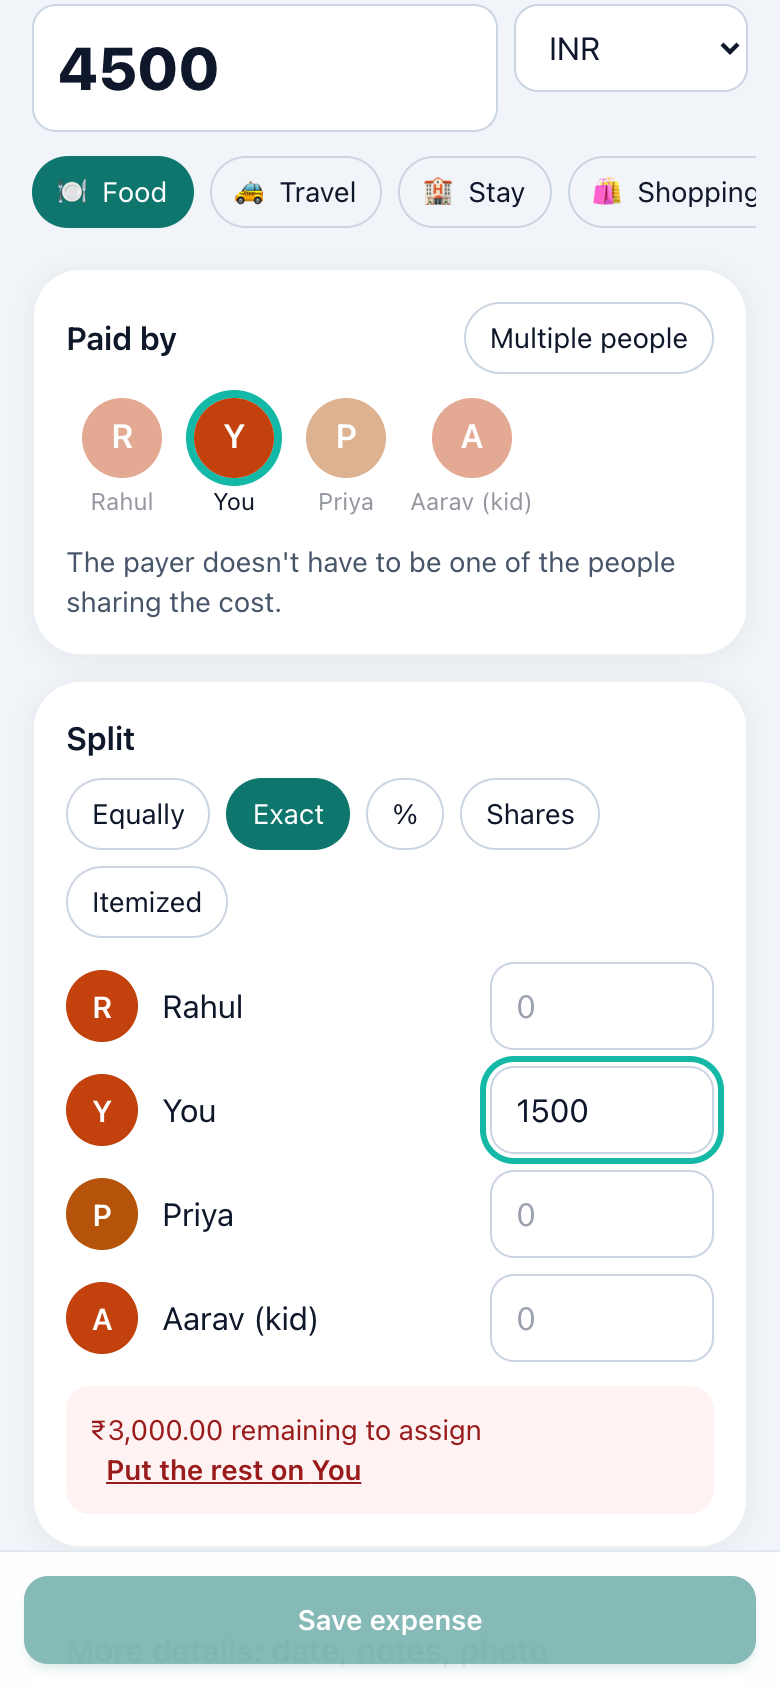
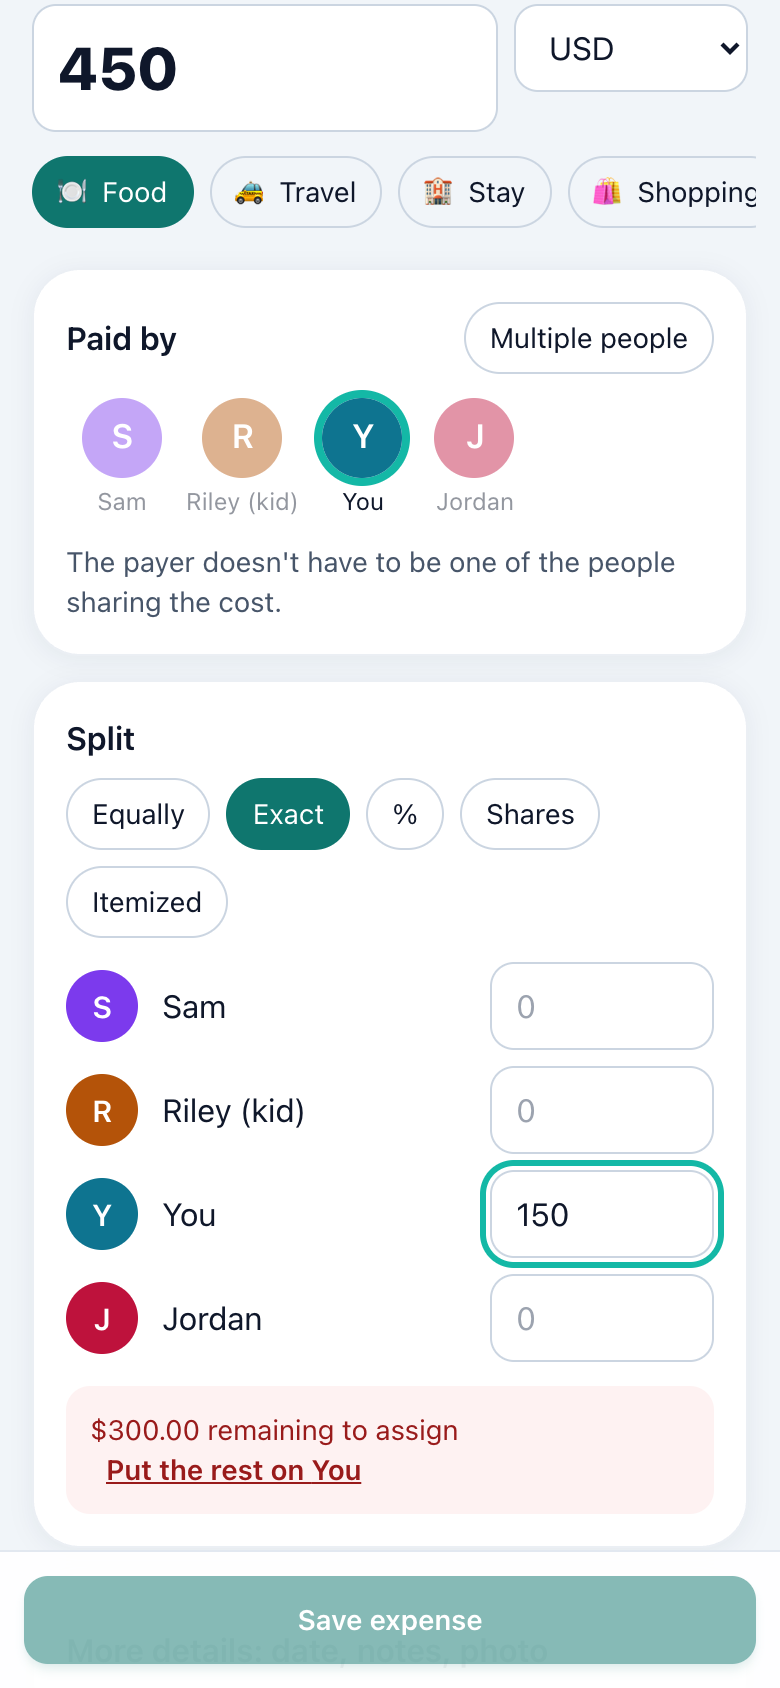
Make the app region-neutral and fix non-INR number grouping
- Generic demo group (Beach Trip, USD) and placeholders
- Default currency from browser locale; UPI fields only for INR groups
- formatMoney: standard thousands grouping for all currencies except INR
  (THB was showing lakh-style 1,39,838.17); add tests
- Refresh README screenshots

diff --git a/src/lib/demo.ts b/src/lib/demo.ts
@@ -1,7 +1,6 @@
 import { todayLocal } from '../core/misc'
 import { itemizedTotal } from '../core/split'
 import type { Expense, ItemizedExtras, ReceiptItem, RecurringRule, Settlement } from '../core/types'
-import { db } from '../db/db'
 import { addMember, createGroup, newBase, saveRecord, uuid } from '../db/repo'
 
 const ago = (n: number) => todayLocal(new Date(Date.now() - n * 864e5))
@@ -10,37 +9,37 @@ const monthStart = () => todayLocal(new Date(new Date().getFullYear(), new Date(
 
 /** Seed a realistic demo group covering every split mode, multi-payer, multi-currency, recurring & a settlement. */
 export async function createDemoGroup(): Promise<string> {
-  const { group, me } = await createGroup('Goa Trip (demo)', 'INR', 'You')
-  const [rahul, priya, kid] = [await addMember(group.id, 'Rahul'), await addMember(group.id, 'Priya'), await addMember(group.id, 'Aarav (kid)')]
-  const all = [me.id, rahul.id, priya.id, kid.id]
-  await db.members.update(rahul.id, { upiId: 'rahul@okhdfcbank' })
-  const base = { groupId: group.id, currency: 'INR', rate: 1, notes: '', createdAt: new Date().toISOString(), ...newBase() }
+  const { group, me } = await createGroup('Beach Trip (demo)', 'USD', 'You')
+  const [sam, jordan, kid] = [await addMember(group.id, 'Sam'), await addMember(group.id, 'Jordan'), await addMember(group.id, 'Riley (kid)')]
+  const all = [me.id, sam.id, jordan.id, kid.id]
+  const base = { groupId: group.id, currency: 'USD', rate: 1, notes: '', createdAt: new Date().toISOString(), ...newBase() }
   const ex = (p: Partial<Expense> & Pick<Expense, 'title' | 'amount' | 'payers' | 'split' | 'date'>): Expense => ({ id: uuid(), category: 'other', ...base, ...p })
 
   const items: ReceiptItem[] = [
-    { id: uuid(), name: 'Fish thali', unitPrice: 45000, qty: 3, units: [{ sharers: [me.id] }, { sharers: [rahul.id] }, { sharers: [priya.id] }] },
-    { id: uuid(), name: 'Kingfisher', unitPrice: 30000, qty: 2, units: [{ sharers: [me.id] }, { sharers: [rahul.id] }] },
-    { id: uuid(), name: 'Starters (shared)', unitPrice: 60000, qty: 1, units: [{ sharers: [me.id, rahul.id, priya.id, kid.id] }] },
-    { id: uuid(), name: 'Kids juice', unitPrice: 8000, qty: 1, units: [{ sharers: [kid.id] }], confidence: 52 },
+    { id: uuid(), name: 'Fish tacos', unitPrice: 1200, qty: 3, units: [{ sharers: [me.id] }, { sharers: [sam.id] }, { sharers: [jordan.id] }] },
+    { id: uuid(), name: 'Craft beer', unitPrice: 600, qty: 2, units: [{ sharers: [me.id] }, { sharers: [sam.id] }] },
+    { id: uuid(), name: 'Nachos (shared)', unitPrice: 1800, qty: 1, units: [{ sharers: all }] },
+    { id: uuid(), name: 'Kids juice', unitPrice: 300, qty: 1, units: [{ sharers: [kid.id] }], confidence: 52 },
   ]
-  const extras: ItemizedExtras = { tax: { type: 'percent', value: 500 }, service: { type: 'percent', value: 1000 }, discount: { type: 'flat', value: 5000 }, discountBeforeTax: true, distribution: 'proportional' }
+  const extras: ItemizedExtras = { tax: { type: 'percent', value: 800 }, tip: { type: 'percent', value: 1500 }, discount: { type: 'flat', value: 500 }, discountBeforeTax: true, distribution: 'proportional' }
+  const dinner = itemizedTotal(items, extras)
   const list: Expense[] = [
-    ex({ title: 'Villa (2 nights)', category: 'stay', date: ago(6), amount: 2400000, payers: { [me.id]: 1400000, [rahul.id]: 1000000 }, split: { mode: 'equal', participants: all } }),
-    ex({ title: 'Cab from airport', category: 'travel', date: ago(6), amount: 180000, payers: { [priya.id]: 180000 }, split: { mode: 'exact', amounts: { [me.id]: 60000, [rahul.id]: 60000, [priya.id]: 60000 } } }),
-    ex({ title: 'Beach shack dinner', category: 'food', date: ago(5), amount: itemizedTotal(items, extras), payers: { [rahul.id]: itemizedTotal(items, extras) }, split: { mode: 'itemized', items, extras } }),
-    ex({ title: 'Groceries', category: 'shopping', date: ago(5), amount: 320050, payers: { [me.id]: 320050 }, split: { mode: 'shares', shares: { [me.id]: 1, [rahul.id]: 1, [priya.id]: 1, [kid.id]: 0.5 } } }),
-    ex({ title: 'Scooter rental', category: 'travel', date: ago(4), amount: 150000, payers: { [priya.id]: 150000 }, split: { mode: 'percent', percents: { [me.id]: 5000, [rahul.id]: 3000, [priya.id]: 2000 } } }),
-    ex({ title: 'Parasailing', category: 'fun', date: ago(4), amount: 400000, payers: { [me.id]: 400000 }, split: { mode: 'equal', participants: [me.id, rahul.id, priya.id], adjustments: { [rahul.id]: 20000, [priya.id]: -20000 } } }),
-    ex({ title: 'Souvenirs (USD)', category: 'shopping', date: ago(3), currency: 'USD', rate: 83.25, amount: 6000, payers: { [priya.id]: 6000 }, split: { mode: 'equal', participants: all } }),
-    ex({ title: 'Airport refund (credit note)', category: 'travel', date: ago(2), amount: -90000, payers: { [me.id]: -90000 }, split: { mode: 'equal', participants: [me.id, rahul.id, priya.id] } }),
+    ex({ title: 'Beach house (2 nights)', category: 'stay', date: ago(6), amount: 120000, payers: { [me.id]: 70000, [sam.id]: 50000 }, split: { mode: 'equal', participants: all } }),
+    ex({ title: 'Airport taxi', category: 'travel', date: ago(6), amount: 9000, payers: { [jordan.id]: 9000 }, split: { mode: 'exact', amounts: { [me.id]: 3000, [sam.id]: 3000, [jordan.id]: 3000 } } }),
+    ex({ title: 'Seafood dinner', category: 'food', date: ago(5), amount: dinner, payers: { [sam.id]: dinner }, split: { mode: 'itemized', items, extras } }),
+    ex({ title: 'Groceries', category: 'shopping', date: ago(5), amount: 12805, payers: { [me.id]: 12805 }, split: { mode: 'shares', shares: { [me.id]: 1, [sam.id]: 1, [jordan.id]: 1, [kid.id]: 0.5 } } }),
+    ex({ title: 'Scooter rental', category: 'travel', date: ago(4), amount: 6000, payers: { [jordan.id]: 6000 }, split: { mode: 'percent', percents: { [me.id]: 5000, [sam.id]: 3000, [jordan.id]: 2000 } } }),
+    ex({ title: 'Parasailing', category: 'fun', date: ago(4), amount: 15000, payers: { [me.id]: 15000 }, split: { mode: 'equal', participants: [me.id, sam.id, jordan.id], adjustments: { [sam.id]: 1000, [jordan.id]: -1000 } } }),
+    ex({ title: 'Souvenirs (EUR)', category: 'shopping', date: ago(3), currency: 'EUR', rate: 1.08, amount: 4500, payers: { [jordan.id]: 4500 }, split: { mode: 'equal', participants: all } }),
+    ex({ title: 'Ferry refund (credit note)', category: 'travel', date: ago(2), amount: -3500, payers: { [me.id]: -3500 }, split: { mode: 'equal', participants: [me.id, sam.id, jordan.id] } }),
   ]
   for (const e of list) await saveRecord('expense', group.id, e, { action: 'create', summary: `Added "${e.title}"`, silent: true })
-  const s: Settlement = { id: uuid(), groupId: group.id, from: rahul.id, to: me.id, amount: 500000, currency: 'INR', rate: 1, date: ago(1), note: 'Part payment', ...newBase() }
+  const s: Settlement = { id: uuid(), groupId: group.id, from: sam.id, to: me.id, amount: 20000, currency: 'USD', rate: 1, date: ago(1), note: 'Part payment', ...newBase() }
   await saveRecord('settlement', group.id, s, { action: 'settle', summary: 'Recorded a payment', silent: true })
   const rule: RecurringRule = {
     id: uuid(), groupId: group.id, frequency: 'monthly', interval: 1, startDate: monthStart(), ...newBase(),
-    template: { groupId: group.id, title: 'Netflix (shared)', amount: 64900, currency: 'INR', rate: 1, payers: { [me.id]: 64900 }, split: { mode: 'equal', participants: [me.id, rahul.id, priya.id] }, category: 'utilities', notes: '' },
+    template: { groupId: group.id, title: 'Streaming plan (shared)', amount: 1599, currency: 'USD', rate: 1, payers: { [me.id]: 1599 }, split: { mode: 'equal', participants: [me.id, sam.id, jordan.id] }, category: 'utilities', notes: '' },
   }
-  await saveRecord('recurring', group.id, rule, { action: 'create', summary: 'Recurring: Netflix', silent: true })
+  await saveRecord('recurring', group.id, rule, { action: 'create', summary: 'Recurring: streaming plan', silent: true })
   return group.id
 }

diff --git a/src/pages/Home.tsx b/src/pages/Home.tsx
@@ -11,6 +11,13 @@ import { dismissInstall, requestPersistence, useInstallHint } from '../lib/pwa'
 import { download } from '../lib/share'
 import { useSyncUi } from '../sync/engine'
 
+/** Guess a sensible default from the browser locale; users can change it. */
+function defaultCurrency(): string {
+  const region = (navigator.language.split('-')[1] ?? '').toUpperCase()
+  const map: Record<string, string> = { IN: 'INR', GB: 'GBP', AU: 'AUD', CA: 'CAD', SG: 'SGD', AE: 'AED', JP: 'JPY', CH: 'CHF', DE: 'EUR', FR: 'EUR', ES: 'EUR', IT: 'EUR', NL: 'EUR', IE: 'EUR' }
+  return map[region] ?? 'USD'
+}
+
 export default function Home() {
   const nav = useNavigate()
   const toast = useToast()
@@ -23,7 +30,7 @@ export default function Home() {
   const [creating, setCreating] = useState(false)
   const [name, setName] = useState('')
   const [me, setMe] = useState('')
-  const [cur, setCur] = useState('INR')
+  const [cur, setCur] = useState(defaultCurrency())
   const [link, setLink] = useState('')
   const fileRef = useRef<HTMLInputElement>(null)
   const install = useInstallHint()
@@ -85,8 +92,8 @@ export default function Home() {
       {creating ? (
         <form onSubmit={create} className="card mb-4">
           <h2 className="font-bold mb-3">New group</h2>
-          <Field label="Group or trip name" htmlFor="gname"><input id="gname" className="input" required maxLength={80} value={name} onChange={(e) => setName(e.target.value)} placeholder="Goa trip" autoFocus /></Field>
-          <Field label="Your name" htmlFor="myname"><input id="myname" className="input" required maxLength={50} value={me} onChange={(e) => setMe(e.target.value)} placeholder="Amit" /></Field>
+          <Field label="Group or trip name" htmlFor="gname"><input id="gname" className="input" required maxLength={80} value={name} onChange={(e) => setName(e.target.value)} placeholder="Weekend trip, Flat 4B, Team lunch…" autoFocus /></Field>
+          <Field label="Your name" htmlFor="myname"><input id="myname" className="input" required maxLength={50} value={me} onChange={(e) => setMe(e.target.value)} placeholder="Alex" /></Field>
           <Field label="Base currency" htmlFor="cur" hint="Balances are shown in this currency.">
             <select id="cur" className="input" value={cur} onChange={(e) => setCur(e.target.value)}>{Object.keys(CURRENCY_DECIMALS).map((c) => <option key={c}>{c}</option>)}</select>
           </Field>

diff --git a/tests/money.test.ts b/tests/money.test.ts
@@ -36,6 +36,20 @@ describe('money parsing / formatting', () => {
     expect(formatMoney(500, 'JPY')).toBe('¥500')
     expect(toDecimalString(5, 'KWD')).toBe('0.005')
   })
+  it('uses standard thousands grouping for non-INR currencies (THB, USD, EUR, GBP, JPY)', () => {
+    expect(formatMoney(13983817, 'THB')).toBe('฿139,838.17')
+    expect(formatMoney(123456789, 'USD')).toBe('$1,234,567.89')
+    expect(formatMoney(123456789, 'EUR')).toBe('€1,234,567.89')
+    expect(formatMoney(123456789, 'GBP')).toBe('£1,234,567.89')
+    expect(formatMoney(1234567, 'JPY')).toBe('¥1,234,567')
+    expect(formatMoney(1234567, 'KWD')).toBe('KWD 1,234.567')
+    expect(formatMoney(-99999, 'THB')).toBe('-฿999.99')
+    expect(formatMoney(100000, 'THB')).toBe('฿1,000.00')
+  })
+  it('INR keeps lakh/crore grouping', () => {
+    expect(formatMoney(13983817, 'INR')).toBe('₹1,39,838.17')
+    expect(formatMoney(1000000000, 'INR')).toBe('₹1,00,00,000.00')
+  })
   it('convert uses frozen rate, rounds half away from zero, handles decimals shift', () => {
     expect(convert(1000, 83.5, 'USD', 'INR')).toBe(83500)
     expect(convert(1, 0.5, 'INR', 'INR')).toBe(1)

diff --git a/src/pages/group/People.tsx b/src/pages/group/People.tsx
@@ -131,7 +131,7 @@ function Members({ data }: { data: GroupData }) {
                   if (upi.trim() && !isValidVpa(upi.trim())) return toast('That UPI ID looks wrong (e.g. name@bank)')
                   await patchMember(m, { name: sanitizeText(draft, 50) || m.name, upiId: upi.trim() || undefined }, `Renamed ${m.name} to ${draft}`); setEditing(null) }}>
                   <input aria-label="Name" className="input" value={draft} maxLength={50} onChange={(e) => setDraft(e.target.value)} />
-                  <input aria-label="UPI ID" className="input" placeholder="UPI ID (optional)" value={upi} onChange={(e) => setUpi(e.target.value)} />
+                  {data.group.baseCurrency === 'INR' && <input aria-label="UPI ID" className="input" placeholder="UPI ID (optional, India)" value={upi} onChange={(e) => setUpi(e.target.value)} />}
                   <div className="flex gap-2"><button className="btn-primary !min-h-[40px]">Save</button><button type="button" className="btn-ghost !min-h-[40px]" onClick={() => setEditing(null)}>Cancel</button></div>
                 </form>
               ) : (

diff --git a/src/core/currency.ts b/src/core/currency.ts
@@ -2,7 +2,7 @@ import type { Money } from './types'
 
 /** ISO 4217 minor-unit digits for the currencies we expose. */
 export const CURRENCY_DECIMALS: Record<string, number> = {
-  INR: 2, USD: 2, EUR: 2, GBP: 2, AUD: 2, CAD: 2, SGD: 2, AED: 2, CHF: 2, THB: 2,
+  USD: 2, EUR: 2, GBP: 2, INR: 2, AUD: 2, CAD: 2, SGD: 2, AED: 2, CHF: 2, THB: 2,
   JPY: 0, KRW: 0, VND: 0, IDR: 2,
   KWD: 3, BHD: 3, OMR: 3, JOD: 3,
 }
@@ -41,7 +41,8 @@ export function toDecimalString(minor: Money, code: string): string {
   return neg ? `-${out}` : out
 }
 
-export function formatMoney(minor: Money, code: string, locale = 'en-IN'): string {
+/** Digit grouping follows the currency's home convention: lakh/crore for INR, thousands (1,234,567) for everything else. */
+export function formatMoney(minor: Money, code: string, locale = 'en-US'): string {
   const d = decimals(code)
   const neg = minor < 0
   const dec = toDecimalString(Math.abs(minor), code)

diff --git a/src/pages/ExpenseForm.tsx b/src/pages/ExpenseForm.tsx
@@ -211,7 +211,7 @@ function Form({ data, existing }: { data: NonNullable<ReturnType<typeof useGroup
       {ro && <Banner tone="warn">You have view-only access to this group.</Banner>}
 
       <fieldset disabled={ro || saving} className="min-w-0">
-        <Field label="Title" htmlFor="title"><input id="title" className="input" maxLength={120} value={title} onChange={(e) => setTitle(e.target.value)} placeholder="Dinner at the beach shack" /></Field>
+        <Field label="Title" htmlFor="title"><input id="title" className="input" maxLength={120} value={title} onChange={(e) => setTitle(e.target.value)} placeholder="Dinner, taxi, groceries…" /></Field>
 
         {mode !== 'itemized' ? (
           <div className="flex gap-2">

diff --git a/src/lib/ocr.ts b/src/lib/ocr.ts
@@ -36,7 +36,7 @@ const cleanName = (s: string) => s.replace(/[\s.:\-_|*₹$€£]+$/g, '').replac
 const newId = () => (globalThis.crypto?.randomUUID?.() ?? Math.random().toString(36).slice(2))
 
 /** Pure receipt text parser (unit-tested). Everything it returns is meant to be user-corrected. */
-export function parseReceipt(lines: OcrLine[], currency = 'INR'): ParsedReceipt {
+export function parseReceipt(lines: OcrLine[], currency = 'USD'): ParsedReceipt {
   const out: ParsedReceipt = { items: [], tax: 0, service: 0, tip: 0, discount: 0 }
   for (const { text, confidence } of lines) {
     const t = text.replace(/\s+/g, ' ').trim()

diff --git a/README.md b/README.md
@@ -132,7 +132,7 @@ Per-field last-write-wins. Stamps are `"<ISO time>~<device id>"`, so they're tot
 * Whoever holds a link has its access level; there are no per-person identities, so "who did it" in the log is the device's chosen name and can be wrong. Owner links are powerful, so share sparingly. Anyone who loses all owner devices can't manage links.
 * OCR (Tesseract.js) is rough on crumpled/low-light receipts and downloads its English language file on first use (needs internet once); everything it finds is editable by design.
 * Free exchange-rate API (frankfurter.app, ECB) doesn't cover every currency (e.g. KWD/AED); enter the rate manually. PDF uses the built-in font, so ₹ prints as "Rs".
-* Greedy debt simplification is not guaranteed to be the global minimum number of transfers. UPI deep links need a UPI app and only apply to INR.
+* Greedy debt simplification is not guaranteed to be the global minimum number of transfers. UPI payment links/QR are an optional India-only extra (shown only for INR groups); other currencies use the share text and reminder messages. The default currency follows the browser locale (USD if unknown).
 * Rate limiting is per IP/link inside Postgres, which is sufficient for casual abuse, not a determined attacker. There's no per-group quota on stored records.
 * Recurring expenses are generated when someone opens the app/group (no server scheduler); they split equally among active members.
 * Schema migrations: Dexie is at v1; future changes will need a new `version()`.
